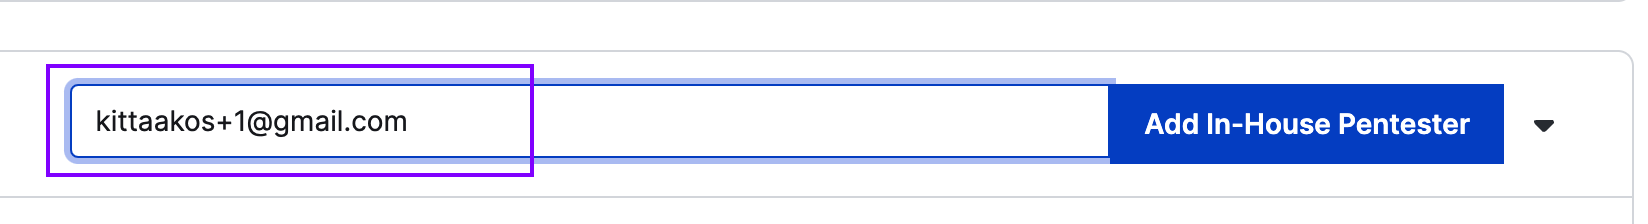
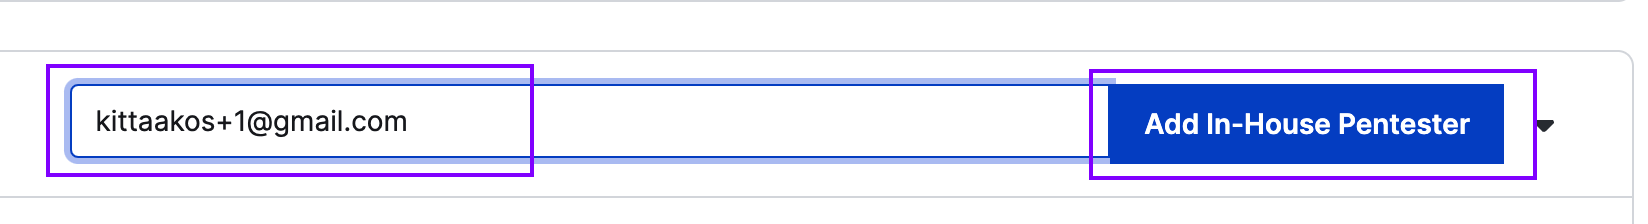
fix: create finding

Changed region(s): [[0.6499, 0.2812, 0.9593, 0.3438], [0.6499, 0.7812, 0.9284, 0.8125]]

diff --git a/content/en/Integrations/Development/veriy-with-test-data.md b/content/en/Integrations/Development/veriy-with-test-data.md
@@ -6,22 +6,10 @@ description: >
   Populate a test organization with test findings using an in-house pentest.
 ---
 
-## TODO
-
 ## Purpose
 
 This document is intended for organizations looking to test their integration builder in a non-prod environment.
 It includes detailed steps for populating an in-house pentest with fake vulnerabilities for testing purposes.
-
-## Limitations
-
-In this tutorial, we will explore the _'+1 email address trick'_ to simulate multiple users within the Cobalt application.
-
-The _'+1 email address trick'_ is a clever method used to generate various email addresses from a single Gmail account. This technique involves adding a “+1” (or a combination of numbers and letters) to the local part of your Gmail address before the “@” symbol.
-
-For instance, if your Gmail address is `joeman@gmail.com`, you can create a new address by appending “+1” to the local part: `joeman+1@gmail.com`. For more comprehensive information about this functionality, please refer to the official Gmail blog [here](https://gmail.googleblog.com/2008/03/2-hidden-ways-to-get-more-from-your.html).
-
-> ⚠ **It's important to note that the +1 email address trick is specific to Gmail and allows users to create aliases for better inbox organization. However, it may not be compatible with all email providers such as Hotmail, Outlook, or iCloud.**
 
 ## Prerequisites
 
@@ -30,13 +18,23 @@ For instance, if your Gmail address is `joeman@gmail.com`, you can create a new 
 - You have been invited to the test organization, accepted the invitation, and have an Owner role. This user will
   be referred to as the primary user throughout the rest of the document.
 
-  > ℹ The email address of this user will be referenced as the primary email
+  > ℹ The email address of this user will be referenced as the primary email
 
   ![Verify primary user role](/integrations/Create-test-finding-verify-primary-user-role.png "Verify primary user role")
 
+### Limitations
+
+In this tutorial, we will explore the _+1 email address trick_ to simulate multiple users within the Cobalt application.
+
+The _+1 email address trick_ is a syntax technique used to create multiple email addresses based on a single Gmail address. This trick involves appending a “+1” (or any combination of numbers and letters) to the local part of your Gmail address, before the “@” symbol.
+
+ > ℹ Example: If your Gmail address is `joeman@gmail.com`, you can create a new email address by adding “+1” to the local part: `joeman+1@gmail.com`. For more comprehensive information about this functionality, please refer to the official Gmail blog [here](https://gmail.googleblog.com/2008/03/2-hidden-ways-to-get-more-from-your.html).
+
+> ⚠ **It's important to note that the '+1 email address trick' is specific to Gmail and allows users to create aliases for better inbox organization. However, it may not be compatible with all email providers such as Hotmail, Outlook, or iCloud.**
+
 ## Set up secondary user
 
-> ℹ This documentation uses `kittaakos@gmail.com` as the primary user's email address.
+> ℹ This documentation uses `kittaakos@gmail.com` as the primary user's email address.
 
 1. Log in to the Cobalt application with your primary user.
 1. Open the **People** page from the sidebar.
@@ -48,7 +46,7 @@ For instance, if your Gmail address is `joeman@gmail.com`, you can create a new 
 
    ![Add secondary user](/integrations/Create-test-finding-add-secondary-user.png "Add secondary user")
 
-   > ℹ Since the primary email address is `kittaakos@gmail.com`, the secondary will be `kittaakos+1gmail.com`.
+   > ℹ Since the primary email address is `kittaakos@gmail.com`, the secondary will be `kittaakos+1gmail.com`.
 
 1. Click on the **Invite** button.
 
@@ -58,7 +56,7 @@ For instance, if your Gmail address is `joeman@gmail.com`, you can create a new 
 
    ![Verify secondary user invited](/integrations/Create-test-finding-verify-secondary-user-invited.png "Verify secondary user invited")
 
-   > ℹ You may need to scroll down in the list of people in your organization.
+   > ℹ You may need to scroll down in the list of people in your organization.
 
 1. Check your primary emails for the invitation of the secondary user.
 
@@ -81,7 +79,7 @@ For instance, if your Gmail address is `joeman@gmail.com`, you can create a new 
 
    > 🎉 You have successfully logged into Cobalt using your secondary user.
 
-## Create In-House Pentest (Primary user)
+## Create In-House Pentest (_primary user_)
 
 1. Using your primary user, open the **Pentests** page from the sidebar and click on **Create Pentest**.
 
@@ -91,13 +89,13 @@ For instance, if your Gmail address is `joeman@gmail.com`, you can create a new 
 
    ![Get started with In-House Pentests](/integrations/Create-test-finding-get-started-with-inhouse-pentests.png "Get started with In-House Pentests")
 
-   >  ℹ You can skip this step if the **In-House Pentest Beta** feature is already enabled for your organization.
+   >  ℹ You can skip this step if the **In-House Pentest Beta** feature is already enabled for your organization.
 
 1. Click on **Enter the Beta** if you want to enable the **In-House Pentest Beta** feature.
 
    ![Enter In-House Pentests Beta](/integrations/Create-test-finding-enter-inhouse-pentests.png "Enter In-House Pentests Beta")
 
-   >  ℹ You can skip this step if the **In-House Pentest Beta** feature is already enabled for your organization.
+   >  ℹ You can skip this step if the **In-House Pentest Beta** feature is already enabled for your organization.
 
 1. Select the **In-House Pentest** type and asset you want to test, then click on **Continue**.
 
@@ -105,19 +103,19 @@ For instance, if your Gmail address is `joeman@gmail.com`, you can create a new 
 
    ![Create In-House Pentest](/integrations/Create-test-finding-create-inhouse-pentest.png "Create In-House Pentest")
 
-   >  ℹ You can create a dedicate asset for testing purposes or use an existing one.
+   >  ℹ You can create a dedicate asset for testing purposes or use an existing one.
 
-1. You can leave the **Asset** page by clicking on **Next**
+1. No changes are required on the **Asset** page. You can proceed by clicking on **Next**.
 
    ![Rename In-House Pentest](/integrations/Create-test-finding-rename-pentest.png "Rename In-House Pentest")
 
-   > ℹ Changing the pentest name is optional but helps to distinguish test pentests from each other. The pentest can be renamed ny clicking on the pencil icon next to the pentest name and confirm the changes with **Done**.
+   > ℹ Changing the pentest name is optional but helps to distinguish test pentests from each other. The pentest can be renamed ny clicking on the pencil icon next to the pentest name and confirm the changes with **Done**.
 
-1. On the **Requirement** page, the following information must be provided:
+1. On the **Requirement** page, the following fields must be set:
 
-   - Targets,
-   - Objectives, and
-   - Technology stack.
+   - **Targets**,
+   - **Objectives**, and
+   - **Technology stack**.
 
    ![Set targets](/integrations/Create-test-finding-set-targets.png "Set targets")
 
@@ -125,60 +123,109 @@ For instance, if your Gmail address is `joeman@gmail.com`, you can create a new 
 
    ![Set technology stack](/integrations/Create-test-finding-set-technology-stack.png "Set technology stack")
 
-   >  ℹ The input content is irrelevant.
+   >  ℹ The input content is irrelevant.
 
 1. No changes are required on the **Details** page. Proceed by clicking on **Next**.
 
    ![Optional details](/integrations/Create-test-finding-optional-details.png "Optional details")
 
-1. Select the required **Start** and **End** dates on the **Scope & Plan** page, and click on **Save & Exit** to finish the wizard.
+1. Select the required **Start** and **End** dates on the **Scope & Plan** page, and click on **Save & Exit** to create the pentest.
 
    ![Configure plan](/integrations/Create-test-finding-configure-plan.png "Configure plan")
 
-   > ℹ It is recommended to check the _I'm a point of contact for this pentest_ checkbox.
+   > ℹ You can check the _I'm a point of contact for this pentest_ checkbox.
 
-![Pentest created](/integrations/Create-test-finding-pentest-created.png "Pentest created")
+1. The **In-House** pentest is in **Draft** state. Click on **Move to Planned**.
 
-![Plan pentest](/integrations/Create-test-finding-plan-pentest.png "Plan pentest")
+   ![Pentest created](/integrations/Create-test-finding-pentest-created.png "Pentest created")
 
-![Pentest planned](/integrations/Create-test-finding-pentest-planned.png "Pentest planned")
+1. Confirm it by clicking on **Move to Planned** in the modal dialog.
 
-![Add In-House pentester](/integrations/Create-test-finding-add-inhouse-pentester.png "Add In-House pentester")
+   ![Plan pentest](/integrations/Create-test-finding-plan-pentest.png "Plan pentest")
 
-![Add secondary user to pentest](/integrations/Create-test-finding-add-secondary-user-to-pentest.png "Add secondary user to pentest")
+1. Click on **staff your in-house pentesters** in the flash message to add assign the secondary user to the pentest.
 
-![Verify secondary user added](/integrations/Create-test-finding-verify-secondary-user-add.png "Verify secondary user added")
+   > [Pentest planned](/integrations/Create-test-finding-pentest-planned.png "Pentest planned")
 
-![Secondary user invited](/integrations/Create-test-finding-secondary-user-invited.png "Secondary user invited")
+   > ℹ Pentesters and collaborators can accessed and configured from the **Collaborators**. Select **Pentests** from the sidebar, select a pentest, open the **Collaborators** tab.
 
-![Launch pentest](/integrations/Create-test-finding-launch-pentest.png "Launch pentest")
+1. Click on the down pointing triangle (**▼**) and select **In-House Pentester**.
 
-![Live pentest](/integrations/Create-test-finding-live-pentest.png "Live pentest")
+   ![Add In-House pentester](/integrations/Create-test-finding-add-inhouse-pentester.png "Add In-House pentester")
 
-![Submit finding](/integrations/Create-test-finding-submit-finding.png "Submit finding")
+1. Set the secondary email as the input and click on the **Add In-House Pentester** button.
 
-![Select vulnerability type](/integrations/Create-test-finding-select-vulnerability-type.png "Select vulnerability type")
+   ![Add secondary user to pentest](/integrations/Create-test-finding-add-secondary-user-to-pentest.png "Add secondary user to pentest")
 
-![Set description](/integrations/Create-test-finding-set-description.png "Set description")
+1. Verify the secondary user is in the **Collaborators** list with **In-House Pentester** role.
 
-![Set proof of concept](/integrations/Create-test-finding-set-poc.png "Set proof of concept")
+   ![Secondary user invited](/integrations/Create-test-finding-secondary-user-invited.png "Secondary user invited")
 
-![Set severity](/integrations/Create-test-finding-set-severity.png "Set severity")
+   > 🎉 You have successfully created an in-house pentest and staffed the secondary user as a pentester.
 
-![Set suggested fix](/integrations/Create-test-finding-set-suggested-fix.png "Set suggested fix")
+## Create Test Finding (_secondary user_)
 
-![Submit for triage](/integrations/Create-test-finding-submit-for-triage.png "Submit for triage")
+   > ℹ The pentest must be **live** to submit findings.
 
-!['Triaging' finding](/integrations/Create-test-finding-vuln-triaging.png "'Triaging' finding")
+1. From the incognito browser window, open the previously created pentest and launch it by click on **Launch Pentest**.
 
-![Select 'Pending Fix' state](/integrations/Create-test-finding-select-pending-fix-state.png "Select 'Pending Fix' state")
+   ![Launch pentest](/integrations/Create-test-finding-launch-pentest.png "Launch pentest")
 
-![Submit evaluation](/integrations/Create-test-finding-submit-evaluation.png "Submit evaluation")
+   ![Live pentest](/integrations/Create-test-finding-live-pentest.png "Live pentest")
 
-!['Pending Fix' finding](/integrations/Create-test-finding-pending-fix-vuln.png "'Pending Fix' finding")
+1. Click on **Submit Finding**.
 
-![In-House pentest findings](/integrations/Create-test-finding-pentest-vulns.png "In-House pentest findings")
+   ![Submit finding](/integrations/Create-test-finding-submit-finding.png "Submit finding")
 
-![New findings notification](/integrations/Create-test-finding-pending-fix-vuln-notification.png "New findings notification")
+   The following information must be set create a test finding data:
+      - **Vulnerability type**,
+      - **Description**,
+      - **Proof of concept**,
+      - **Severity**, and
+      - **Suggested fix**.
 
-![Review new finding](/integrations/Create-test-finding-pending-fix-vuln-review.png "Review new finding")
+   ![Select vulnerability type](/integrations/Create-test-finding-select-vulnerability-type.png "Select vulnerability type")
+
+   ![Set description](/integrations/Create-test-finding-set-description.png "Set description")
+
+   ![Set proof of concept](/integrations/Create-test-finding-set-poc.png "Set proof of concept")
+
+   ![Set severity](/integrations/Create-test-finding-set-severity.png "Set severity")
+
+   ![Set suggested fix](/integrations/Create-test-finding-set-suggested-fix.png "Set suggested fix")
+
+   >  ℹ The input content is irrelevant but some validation constraints must be fulfilled. For example, the severity is at least a three character long string.
+
+1. Click on **Submit for Triaging**. at the bottom of the page when all required info set.
+
+   ![Submit for triage](/integrations/Create-test-finding-submit-for-triage.png "Submit for triage")
+
+1. The pentest finding is in **Triaging** state.
+
+   !['Triaging' finding](/integrations/Create-test-finding-vuln-triaging.png "'Triaging' finding")
+
+1. Select the finding state to **Pending Fix** from the dropdown and submit the evaluation.
+
+   ![Select 'Pending Fix' state](/integrations/Create-test-finding-select-pending-fix-state.png "Select 'Pending Fix' state")
+
+1. Set the **Likelihood**, **Business Impact**, and the **Report Quality** values by clicking on the circles (**●**) and on the **Submit evaluation** button.
+
+   ![Submit evaluation](/integrations/Create-test-finding-submit-evaluation.png "Submit evaluation")
+
+1. The pentest finding is in **Pending Fix** state.
+
+   !['Pending Fix' finding](/integrations/Create-test-finding-pending-fix-vuln.png "'Pending Fix' finding")
+
+1. See all pentest findings.
+
+   ![In-House pentest findings](/integrations/Create-test-finding-pentest-vulns.png "In-House pentest findings")
+
+   > 🎉 You have successfully created a finding for the in-house pentest with the secondary user.
+
+## Working with the test findings (_primary user_)
+
+1. The findings created by the secondary user for the in-house pentest are visible for the primary user.
+
+   ![New findings notification](/integrations/Create-test-finding-pending-fix-vuln-notification.png "New findings notification")
+
+   ![Review new finding](/integrations/Create-test-finding-pending-fix-vuln-review.png "Review new finding")
